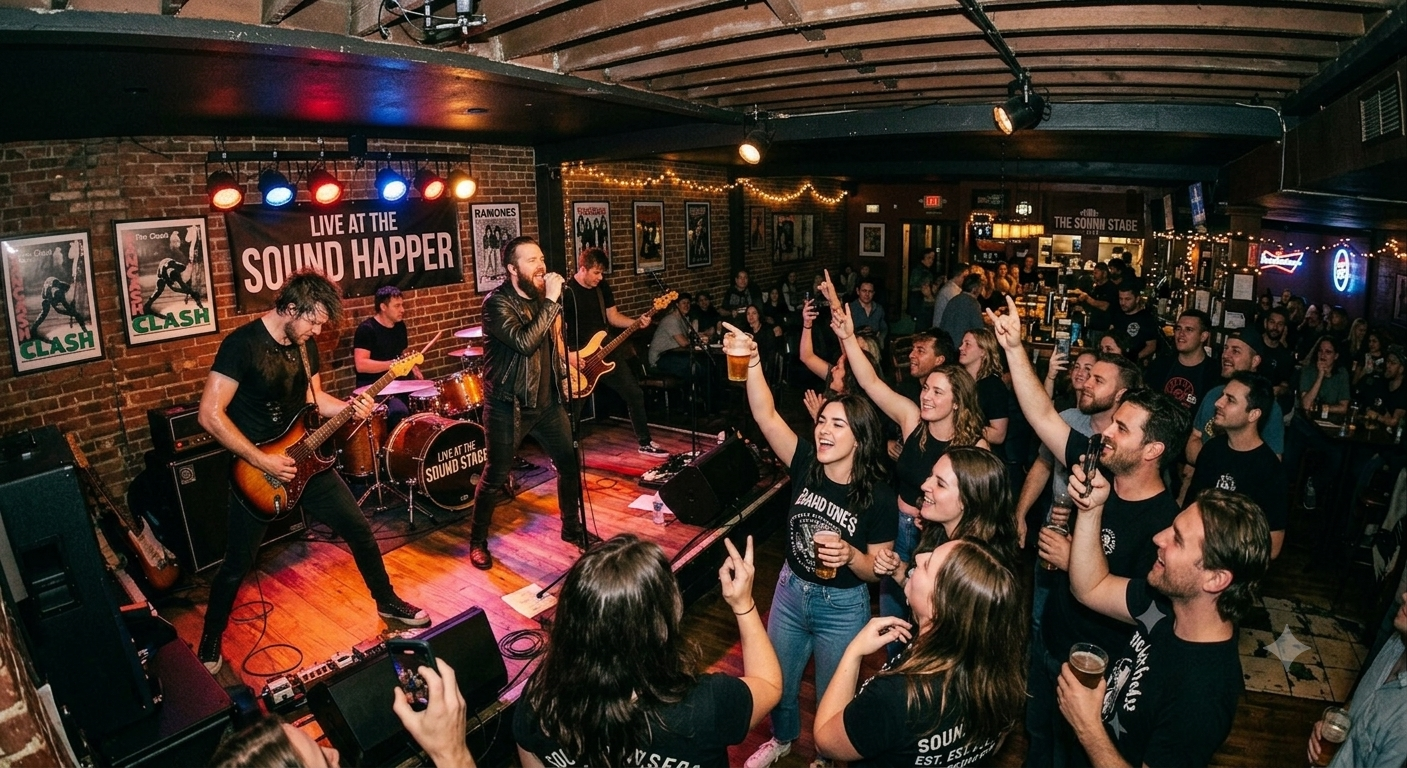
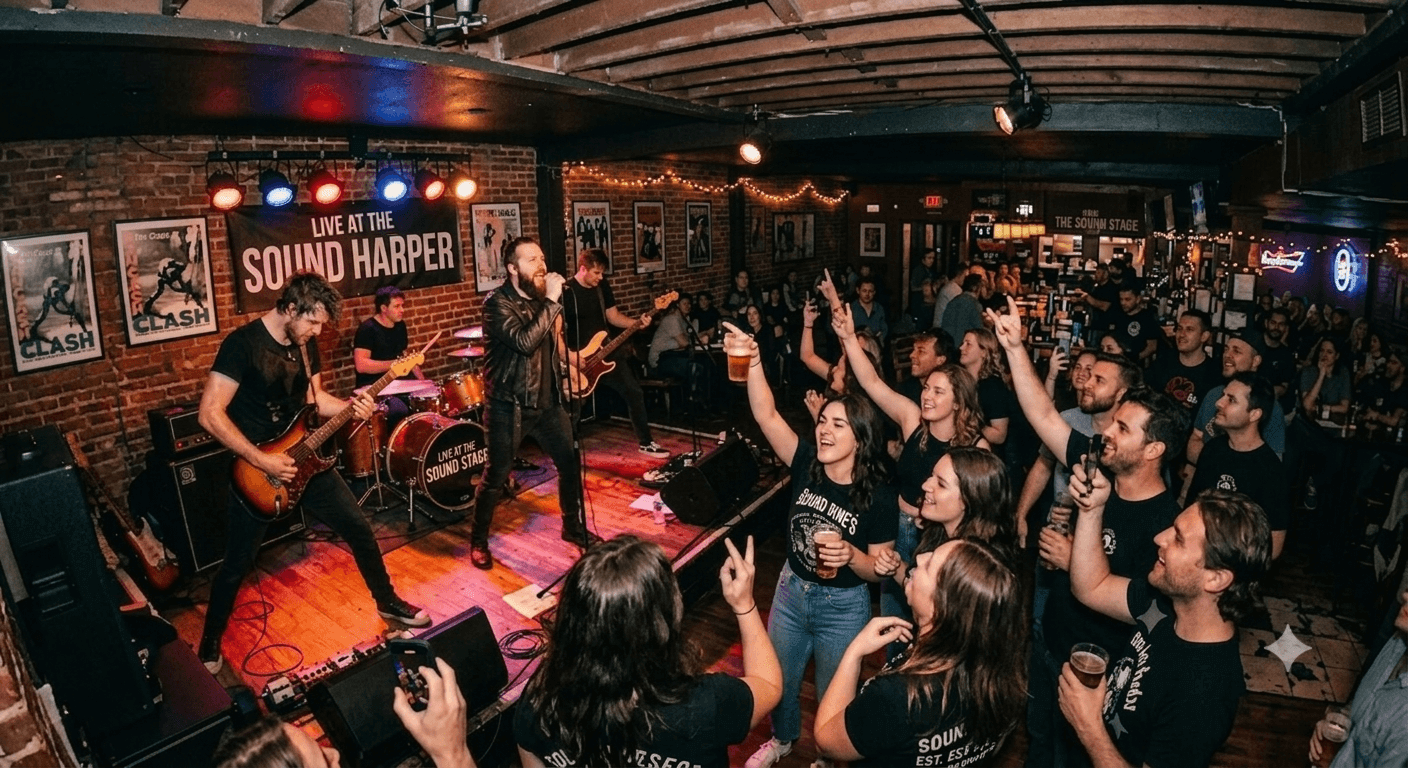
sound-happer

diff --git a/0index.html b/0index.html
@@ -2,7 +2,7 @@
 <!doctype html>
 <html lang="en" data-bs-theme="light">
     <head>
-        <title>Sound Happer - Tour</title>
+        <title>Sound Happer</title>
         <meta charset="utf-8" />
         <meta name="viewport" content="width=device-width, initial-scale=1" />
         <link rel="apple-touch-icon" sizes="180x180" href="assets/img/fav-icon/apple-touch-icon.png">